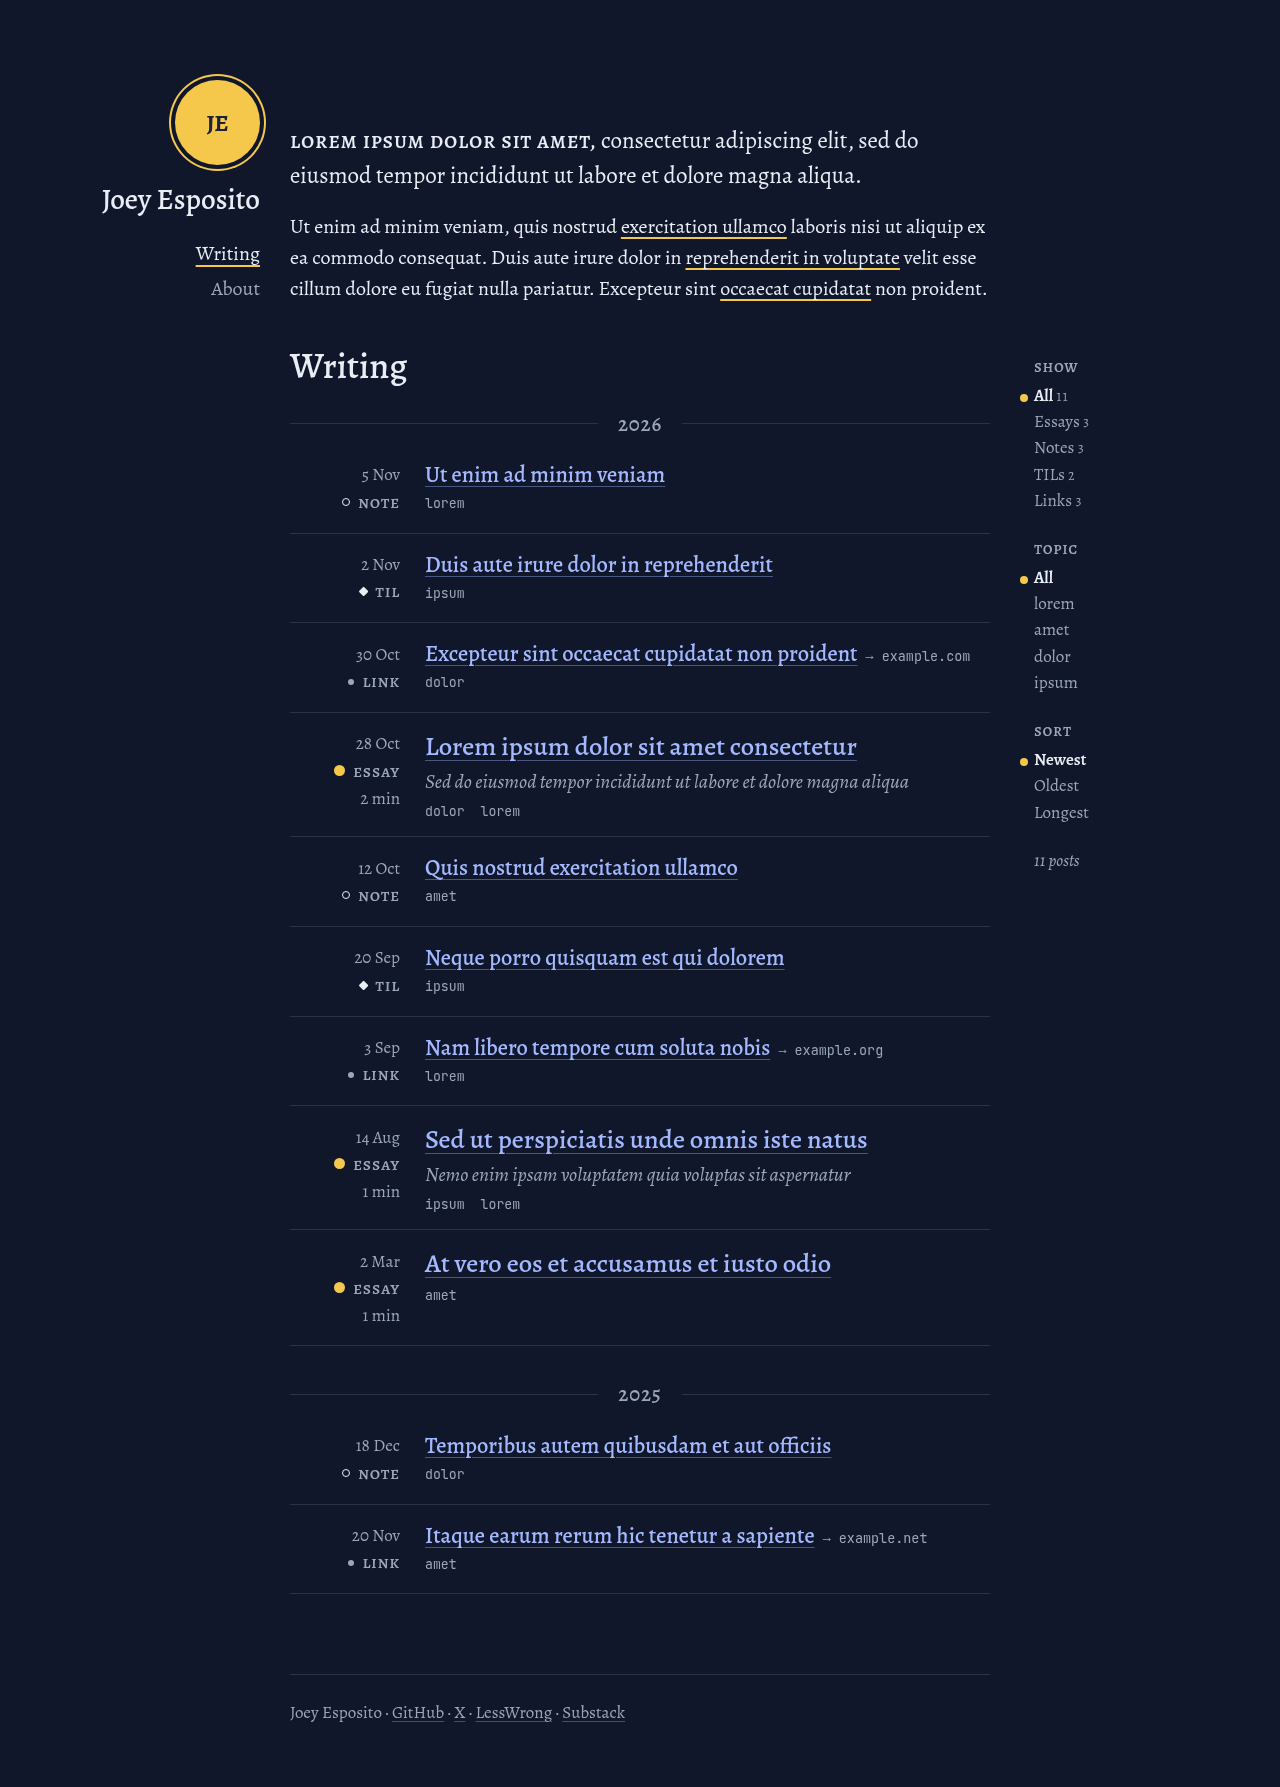
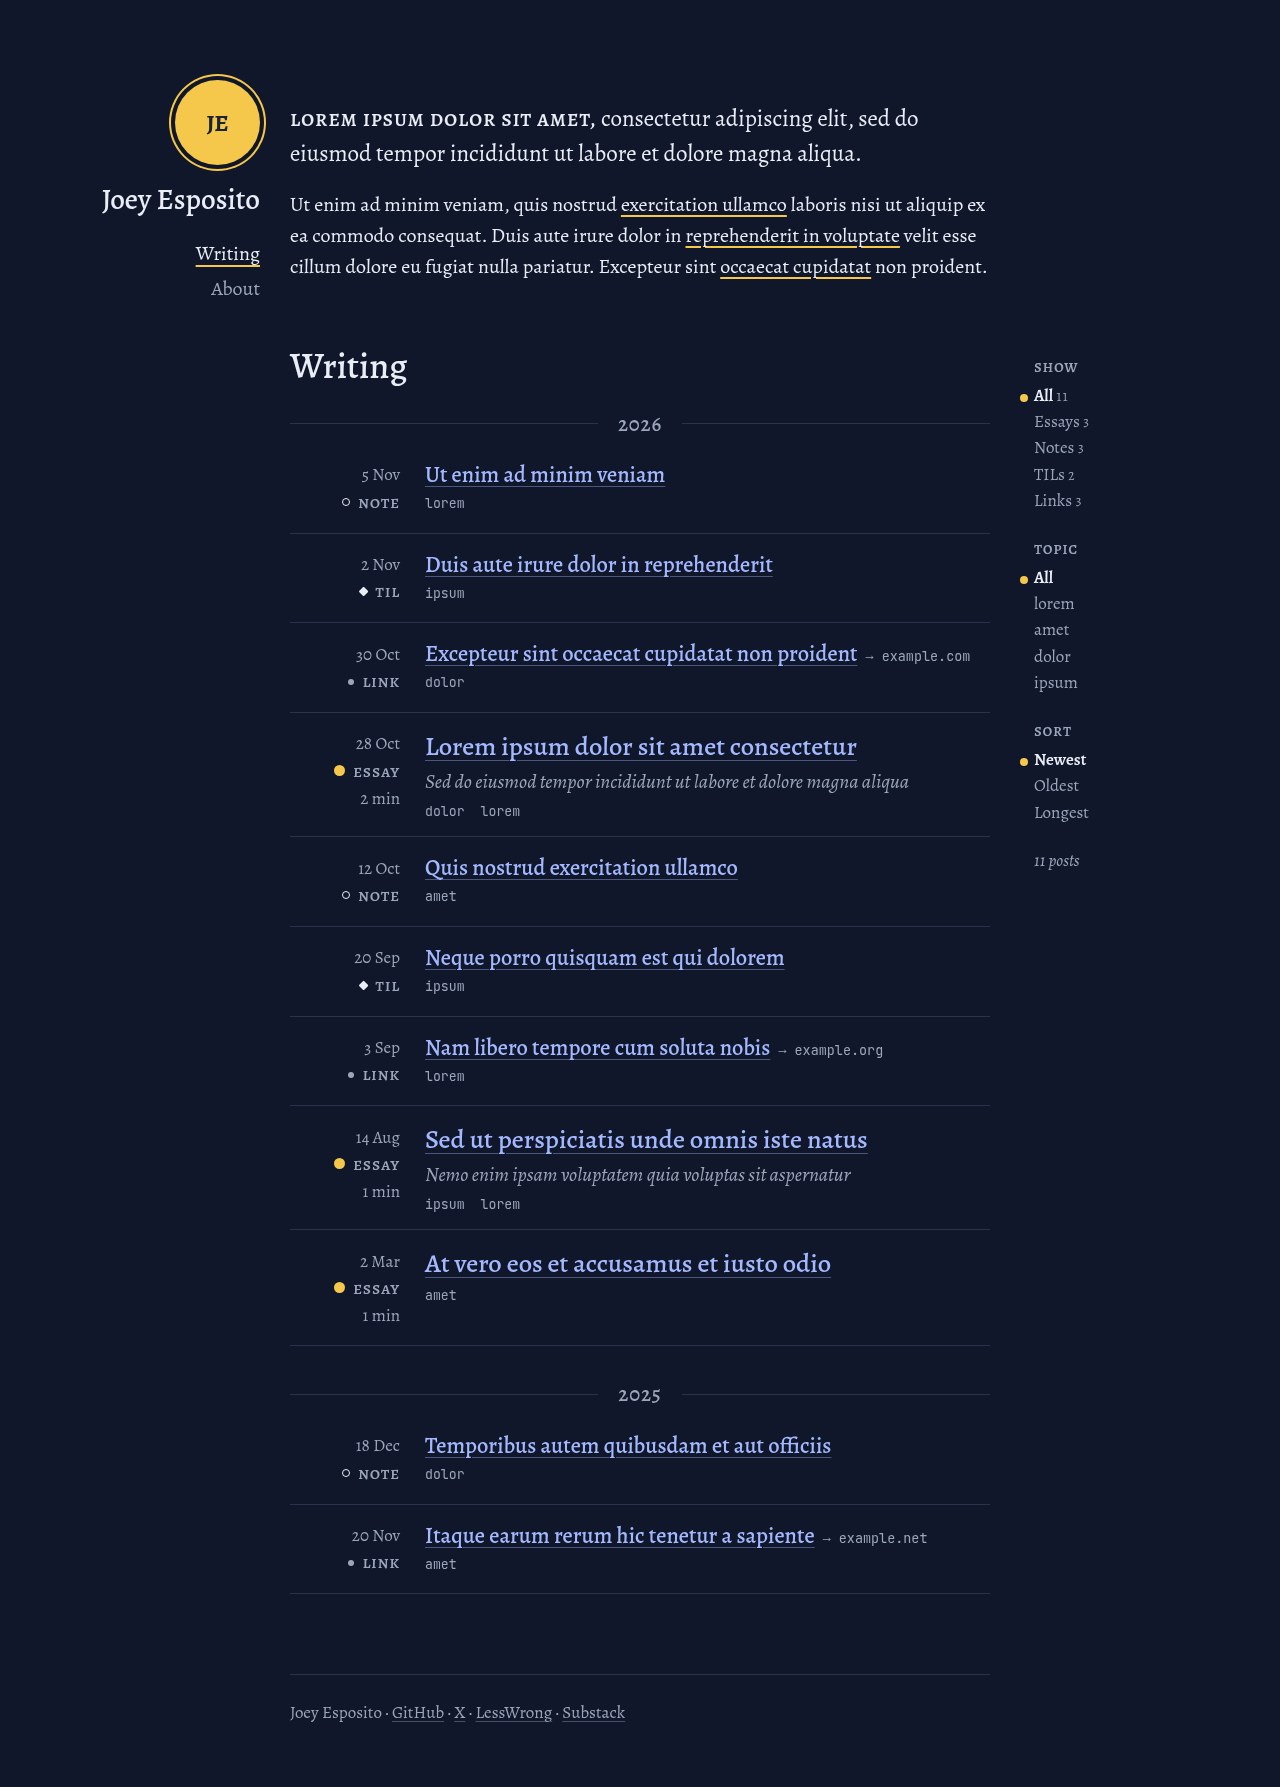
Centre the home page's intro on the margin header

Changed region(s): [[0.2188, 0.0616, 0.7812, 0.1847]]

diff --git a/src/styles/global.css b/src/styles/global.css
@@ -106,16 +106,16 @@ sup { line-height: 0; }
   .with-rail > .rail { grid-column: 2; grid-row: 1 / span 3; align-self: start; position: sticky; top: 2rem; max-height: calc(100vh - 4rem); overflow-y: auto; }
   .site-footer { grid-column: 3; grid-row: 2; max-width: none; margin-inline: 0; padding-inline: 0; }
 
-  /* Home: the intro and the margin's name and pages form one band, bottom-aligned, and the
-     writing list starts below it. The page shares the body's rows (subgrid) so the band row
-     fits both; the header holds that row only, so here it scrolls away. The intro's bottom
-     margin matches the header's bottom padding so their last lines end level. */
+  /* Home: the intro and the margin's name and pages form one band, centred on each other, and
+     the writing list starts below it. The page shares the body's rows (subgrid) so the band
+     row fits both; the header holds that row only, so here it scrolls away. The intro's
+     bottom margin matches the header's bottom padding so the two centre on their content. */
   body:has(.home) { grid-template-rows: auto 1fr auto; }
-  body:has(.home) .site-header { grid-row: 1; align-self: end; position: static; }
+  body:has(.home) .site-header { grid-row: 1; align-self: center; position: static; }
   body:has(.home) .page { grid-row: 1 / 3; display: grid; grid-template-rows: subgrid; }
   body:has(.home) .site-footer { grid-row: 3; }
   .home { display: contents; }
-  .home > .intro { grid-row: 1; align-self: end; max-width: var(--measure); margin-bottom: 2rem; }
+  .home > .intro { grid-row: 1; align-self: center; max-width: var(--measure); margin-bottom: 2rem; }
   .home > .writing { grid-row: 2; align-self: start; }
   /* With the controls out in the rail, the first year divider sits right under the heading. */
   .writing .post-list > .year:first-child { margin-top: 0.4rem; }

diff --git a/DESIGN.md b/DESIGN.md
@@ -66,8 +66,8 @@ Meta 0.85–0.92rem. Inline code 0.8em; code blocks 0.72rem (14.4px).
   nav. Pages that need it put a sticky panel in the right rail (`.with-rail`
   and `.rail`): the writing list's controls, an essay's contents.
 - Home page, from 80rem: the intro and the margin's avatar, name and nav form
-  one top band, aligned at the bottom so the intro's last line and the last nav item share a
-  baseline, and "Writing" with its controls starts below the band. The
+  one top band, the two centred on each other, and "Writing" with its controls starts below
+  the band. The
   header holds only that band here, so it scrolls away with it; the controls stay sticky.
   The first year divider sits 0.4rem under the "Writing" heading.
 
@@ -129,8 +129,9 @@ Client JavaScript: the filter script on `/`. Nothing else.
 8. Joey dropped the theme button: the site follows the reader's system setting.
 9. Joey dropped the archive page: the home list already shows every post by year, with
    filters. The nav is Writing and About.
-10. Joey asked for the home band's two sides to sit flush at the bottom: the intro and the
-    margin's name and nav now align to the band's bottom edge instead of its top.
+10. The home band's two sides differ in height and line spacing, so only one edge can match.
+    Joey compared top, bottom, centred and both-edges alignment on the preview and chose
+    centred.
 
 ## Notes
 
